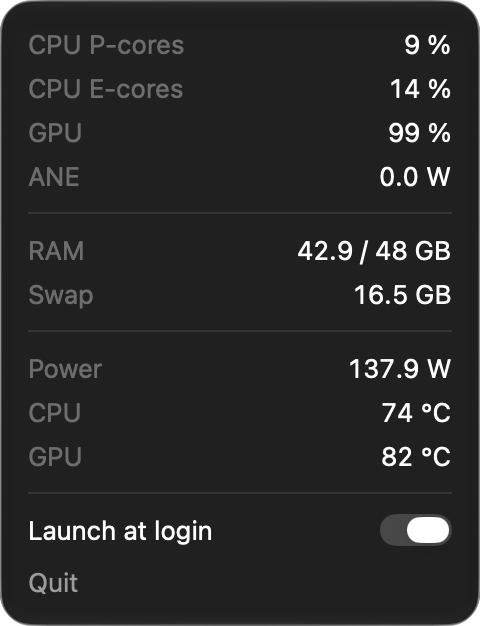
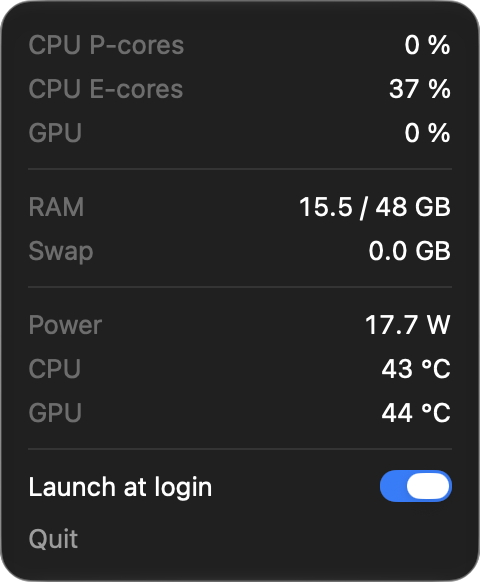
refactor(metrics): drop ane row from ui and docs

diff --git a/Menutop/Metrics/MetricsReader.swift b/Menutop/Metrics/MetricsReader.swift
@@ -5,14 +5,13 @@
 //  Created by Yesset Murat on 13.11.2026.
 //
 
-/// Reads every source into a snapshot, off the main thread. Loads and power are measured
-/// between two reads, so the first read leaves them empty.
+/// Reads every source into a snapshot, off the main thread. Loads are measured between two
+/// reads, so the first read leaves them empty.
 actor MetricsReader {
 
     private let coreKinds = CoreKind.readAll()
     private let smc = SMCConnection()
     private let sensors: SMCSensors?
-    private let anePower = ANEPower()
     private var previousTicks: [CoreTicks]?
 
     init() {
@@ -31,7 +30,6 @@ actor MetricsReader {
             performanceLoad: load.performance,
             efficiencyLoad: load.efficiency,
             gpuLoad: GPUUtilization.read(),
-            anePower: anePower?.read(),
             memory: MemoryUsage.read(),
             systemPower: reading?.systemPower,
             cpuTemperature: reading?.cpuTemperature,

diff --git a/Menutop/Screens/MetricsView.swift b/Menutop/Screens/MetricsView.swift
@@ -23,7 +23,6 @@ struct MetricsView: View {
                 row("CPU P-cores", MetricFormat.percent(snapshot.performanceLoad))
                 row("CPU E-cores", MetricFormat.percent(snapshot.efficiencyLoad))
                 row("GPU", MetricFormat.percent(snapshot.gpuLoad))
-                row("ANE", MetricFormat.watts(snapshot.anePower))
 
                 separator
 

diff --git a/Menutop/Metrics/MetricsSnapshot.swift b/Menutop/Metrics/MetricsSnapshot.swift
@@ -17,8 +17,6 @@ struct MetricsSnapshot: Equatable, Sendable {
     var efficiencyLoad: Double?
     /// Busy share of the GPU, 0 to 1.
     var gpuLoad: Double?
-    /// Neural Engine power, in watts.
-    var anePower: Double?
     var memory: MemoryUsage?
     /// The whole system's power, in watts.
     var systemPower: Double?

diff --git a/README.md b/README.md
@@ -8,7 +8,6 @@ A small menu bar app for Apple Silicon Macs that shows what [mactop](https://git
 |---|---|
 | CPU P-cores, CPU E-cores | busy share of the performance and the efficiency cores |
 | GPU | GPU utilization |
-| ANE | Neural Engine power |
 | RAM | used of total memory, counted as Activity Monitor does (app + wired + compressed) |
 | Swap | swap in use |
 | Power | whole system power |
@@ -30,14 +29,11 @@ Requires an Apple Silicon Mac with macOS 27 or later.
 |---|---|
 | CPU P-cores, E-cores | `host_processor_info` tick deltas; core kind from `cluster-type` in the IORegistry device tree |
 | GPU | `Device Utilization %` of the `IOAccelerator` service |
-| ANE | IOReport `Energy Model` channels named `ANE*` |
 | RAM, Swap | `host_statistics64`, `hw.memsize`, `vm.swapusage` |
 | Power | SMC key `PSTR` |
 | CPU, GPU temperature | SMC keys `Tp*`, `Te*`, `Tf*` (CPU) and `Tg*` (GPU) |
 
-IOReport and the SMC are private, undocumented interfaces, so the app is not sandboxed and is not on the App Store, and a macOS update may break a row. A value that cannot be read shows `—`, never a guess.
-
-On macOS 27.2 the IOReport energy channels for the Neural Engine read 0 (`mactop` shows the same), so ANE usually shows `0.0 W`.
+The SMC is a private, undocumented interface, so the app is not sandboxed and is not on the App Store, and a macOS update may break a row. A value that cannot be read shows `—`, never a guess.
 
 ## Building
 
